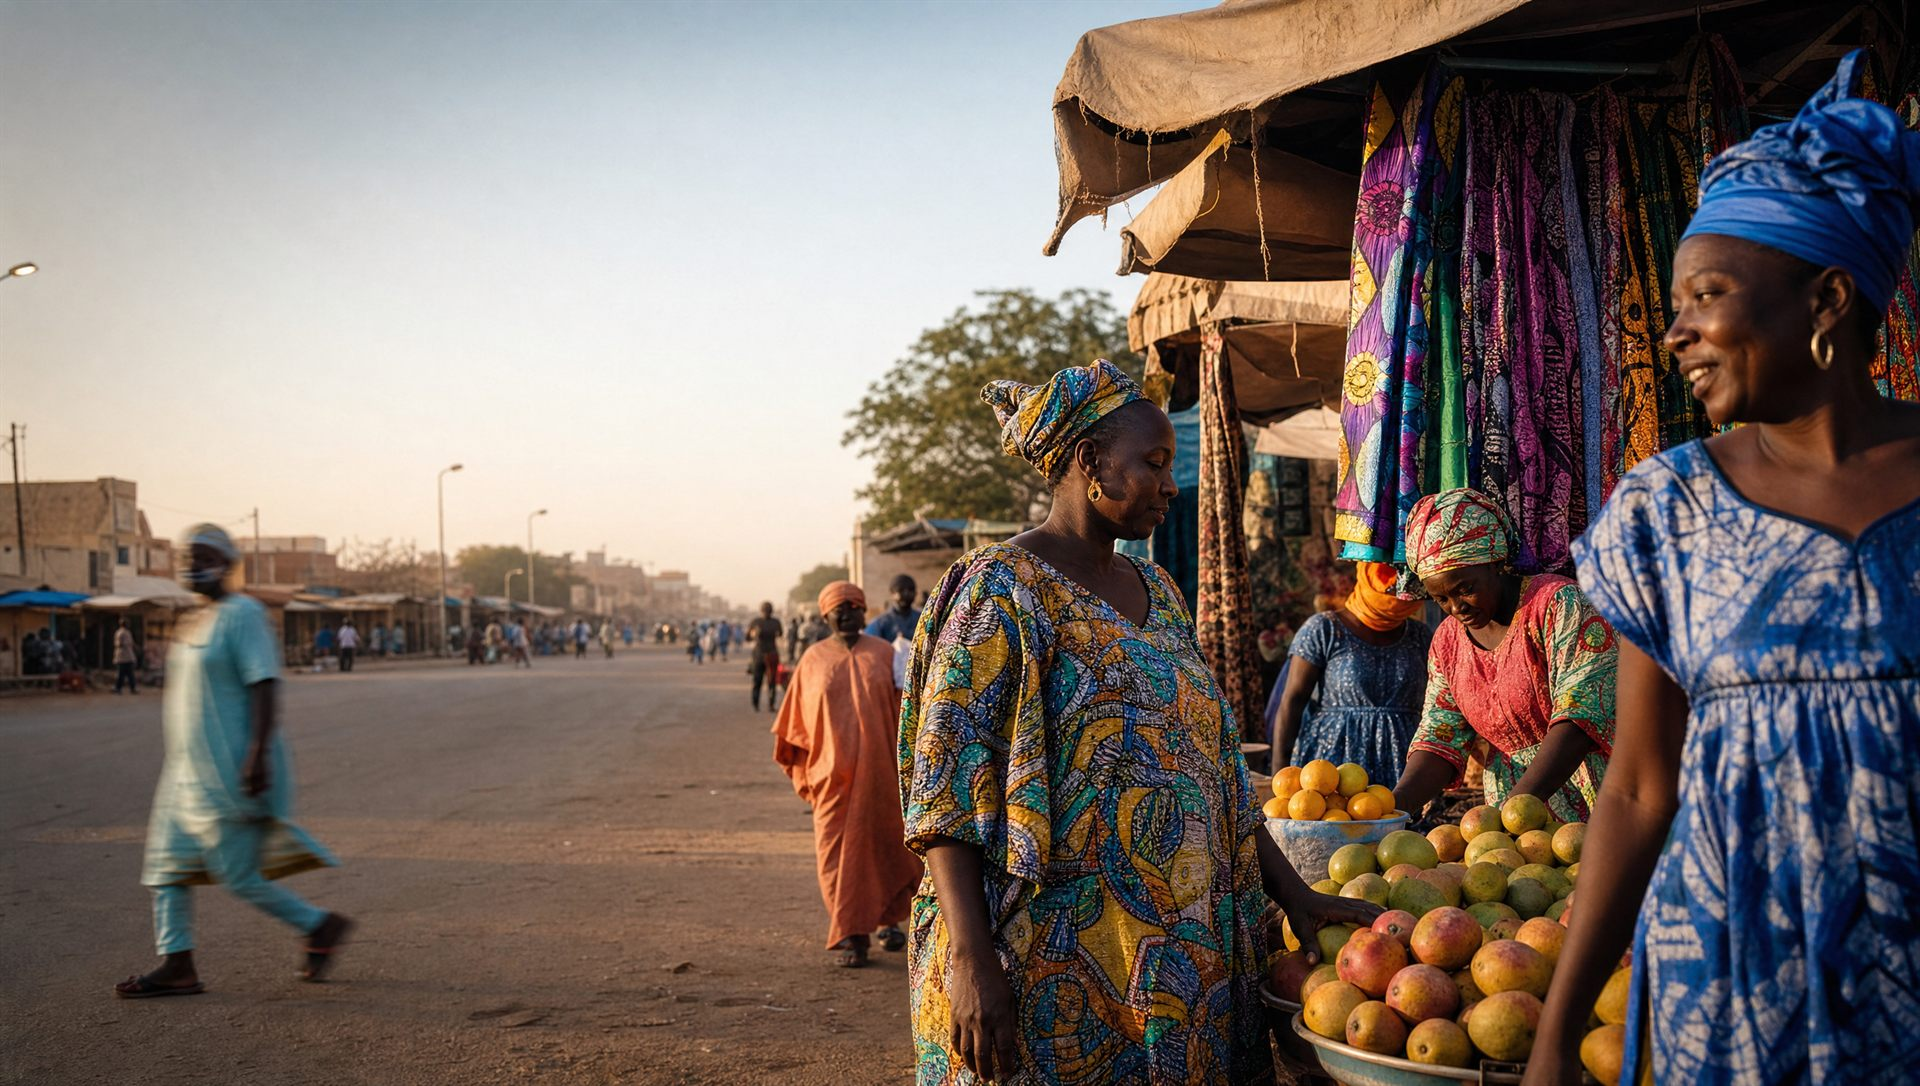
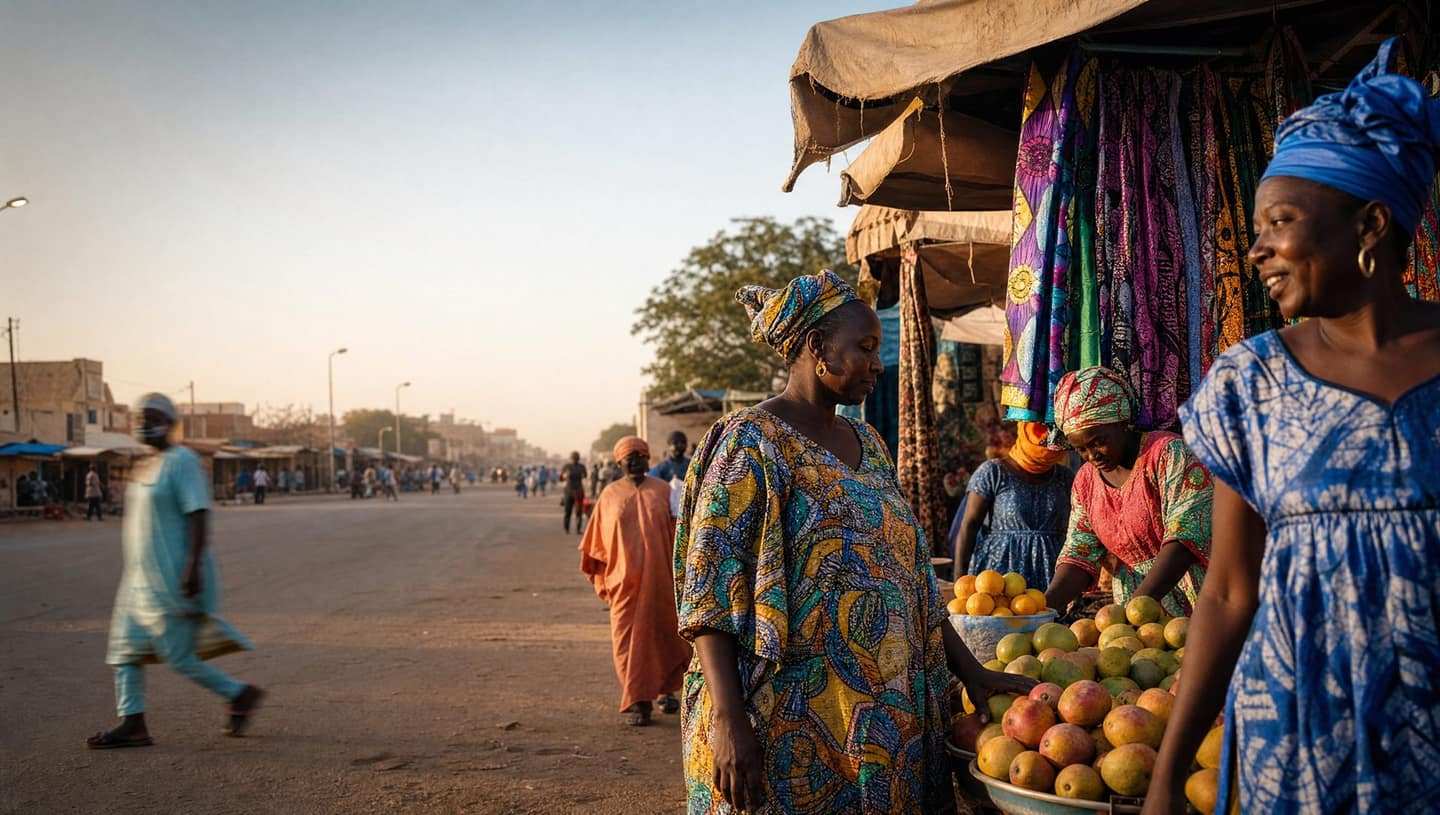
fix(affichage): en-tete selon le compte, polices non bloquantes, bannieres allegees (S1-13)
- entete-compte.js : sur l'accueil, la boutique et le produit, le bouton de
  compte montre le prenom et mene au bon espace (vendeur -> tableau de bord,
  acheteur -> profil, admin -> admin) ; « Devenir vendeur » devient « Mon
  espace vendeur » pour un vendeur connecte. Le bouton de la page produit
  ne faisait rien.
- Produit : le bouton panier ouvre le panier (il affichait « Panier... »).
- Polices Google chargees sans bloquer l'affichage sur les 23 pages, avec
  repli <noscript>. Mesure en 3G lente : la page boutique ne s'affichait
  pas en 25 s, elle s'affiche en 6,0 s.
- banner-hero.jpg 356 -> 144 Ko, banner-mode.jpg 403 -> 179 Ko.

Agent: claude
Claude-Session: https://claude.ai/code/session_01PSfXE2FMeLEV1e51v3fH69

diff --git a/marche-senegal-accueil.html b/marche-senegal-accueil.html
@@ -44,7 +44,7 @@
  ]
 }
 </script>
-<link href="https://fonts.googleapis.com/css2?family=Manrope:wght@300..800&family=Newsreader:ital,opsz,wght@0,6..72,300..800;1,6..72,400..600&display=swap" rel="stylesheet"/>
+<link rel="stylesheet" href="https://fonts.googleapis.com/css2?family=Manrope:wght@300..800&family=Newsreader:ital,opsz,wght@0,6..72,300..800;1,6..72,400..600&display=swap" media="print" onload="this.media='all'"/><noscript><link rel="stylesheet" href="https://fonts.googleapis.com/css2?family=Manrope:wght@300..800&family=Newsreader:ital,opsz,wght@0,6..72,300..800;1,6..72,400..600&display=swap"/></noscript>
 <link rel="stylesheet" href="styles.css"/>
 <style>
 /* HERO */
@@ -443,6 +443,7 @@ footer{background:#0A1710;padding:52px 5vw 28px;color:rgba(255,255,255,.45)}
 </nav>
 <script src="guide-marche.js"></script>
 <script src="api.js"></script>
+<script src="entete-compte.js"></script>
 <script src="stories.js"></script>
 <script src="stories-ui.js"></script>
 <script>
@@ -1057,32 +1058,8 @@ function updateCartCount() {
 
 // ── Mettre à jour le bouton connexion ──
 function updateAuthButton() {
-  const user = getCurrentUser();
-  const loginBtn = document.querySelector('.nav-btn-login');
-  const drawerLoginBtn = document.getElementById('drawer-login-btn');
-
-  if (!loginBtn) return;
-
-  if (user) {
-    // Bouton connexion → prénom
-    loginBtn.textContent = user.firstName || 'Mon profil';
-    loginBtn.onclick = () => window.location.href = 'marche-senegal-profil.html';
-
-    if (drawerLoginBtn) {
-      drawerLoginBtn.textContent = user.firstName || 'Mon profil';
-      drawerLoginBtn.onclick = () => window.location.href = 'marche-senegal-profil.html';
-    }
-
-  } else {
-    // Non connecté
-    loginBtn.textContent = 'Se connecter';
-    loginBtn.onclick = () => window.location.href = 'marche-senegal-connexion-acheteur.html';
-
-    if (drawerLoginBtn) {
-      drawerLoginBtn.textContent = 'Se connecter';
-      drawerLoginBtn.onclick = () => window.location.href = 'marche-senegal-connexion-acheteur.html';
-    }
-  }
+  // Prénom et bonne destination selon le rôle (entete-compte.js).
+  if (window.EnteteCompte) EnteteCompte.appliquer(document, getCurrentUser());
 }
 // ── Fermer le drawer en cliquant dehors ──
 document.addEventListener('click', function(e) {

diff --git a/entete-compte.js b/entete-compte.js
@@ -1,0 +1,52 @@
+// En-tête : le bouton de compte et le lien vendeur suivent la personne connectée.
+// Sans lui, boutique et produit affichaient « Se connecter » même connecté, et un
+// vendeur connecté voyait encore « Devenir vendeur » sur l'accueil.
+(function (root) {
+  'use strict';
+
+  const ESPACE = {
+    SELLER: 'marche-senegal-dashboard.html',
+    ADMIN: 'marche-senegal-admin.html',
+    BUYER: 'marche-senegal-profil.html'
+  };
+
+  function cible(user) {
+    if (!user || !user.role) return { texte: 'Se connecter', lien: 'marche-senegal-connexion-acheteur.html' };
+    return { texte: user.firstName || 'Mon compte', lien: ESPACE[user.role] || ESPACE.BUYER };
+  }
+
+  function lienVendeur(user) {
+    return user && user.role === 'SELLER'
+      ? { texte: 'Mon espace vendeur', lien: ESPACE.SELLER }
+      : { texte: 'Devenir vendeur', lien: 'marche-senegal-connexion-vendeur.html' };
+  }
+
+  function appliquer(doc, user) {
+    const compte = cible(user);
+    doc.querySelectorAll('.nav-btn-login, .nav-drawer-row .nav-btn').forEach(bouton => {
+      bouton.textContent = compte.texte;
+      bouton.dataset.lien = compte.lien;
+      bouton.onclick = () => { root.location.href = compte.lien; };
+    });
+    const vendeur = lienVendeur(user);
+    doc.querySelectorAll('.nav-seller-link').forEach(lien => {
+      lien.setAttribute('href', vendeur.lien);
+      // Seul le texte change : la flèche décorative reste en place.
+      const texte = [...lien.childNodes].find(n => n.nodeType === 3 && n.textContent.trim());
+      if (texte) texte.textContent = vendeur.texte + ' ';
+    });
+  }
+
+  function utilisateur() {
+    try { return typeof root.getCurrentUser === 'function' ? root.getCurrentUser() : null; } catch { return null; }
+  }
+
+  const api = { cible, lienVendeur, appliquer };
+  if (typeof module !== 'undefined' && module.exports) module.exports = api;
+  else {
+    root.EnteteCompte = api;
+    const lancer = () => appliquer(root.document, utilisateur());
+    if (root.document.readyState === 'loading') root.document.addEventListener('DOMContentLoaded', lancer);
+    else lancer();
+  }
+})(typeof window !== 'undefined' ? window : globalThis);

diff --git a/marche-senegal-produit.html b/marche-senegal-produit.html
@@ -5,7 +5,7 @@
 <meta name="viewport" content="width=device-width,initial-scale=1.0"/>
 <title>Produit — Marché Sénégal</title>
 <meta name="description" content="Consultez les détails d'un produit, repérez sa boutique et contactez le vendeur sur Marché Sénégal."/>
-<link href="https://fonts.googleapis.com/css2?family=Manrope:wght@300..800&family=Newsreader:ital,opsz,wght@0,6..72,300..800;1,6..72,400..600&display=swap" rel="stylesheet"/>
+<link rel="stylesheet" href="https://fonts.googleapis.com/css2?family=Manrope:wght@300..800&family=Newsreader:ital,opsz,wght@0,6..72,300..800;1,6..72,400..600&display=swap" media="print" onload="this.media='all'"/><noscript><link rel="stylesheet" href="https://fonts.googleapis.com/css2?family=Manrope:wght@300..800&family=Newsreader:ital,opsz,wght@0,6..72,300..800;1,6..72,400..600&display=swap"/></noscript>
 <link rel="stylesheet" href="styles.css"/>
 <style>
 :root{
@@ -375,7 +375,7 @@ a{text-decoration:none;color:inherit}
   </div>
   <div class="nav-actions">
     <button class="nav-btn nav-btn-login">Se connecter</button>
-    <button class="nav-cart" onclick="toast('Panier...')">
+    <button class="nav-cart" onclick="window.location.href='marche-senegal-panier.html'">
       <i class="ic" data-ic="shopping-cart"></i><div class="cart-badge" id="cart-count">0</div>
     </button>
     <button class="nav-hamburger" id="nav-hamburger" onclick="toggleMenu()">
@@ -640,6 +640,7 @@ a{text-decoration:none;color:inherit}
 </div>
 
 <script src="api.js"></script>
+<script src="entete-compte.js"></script>
 <script>
 // ════════════════════════════════════════
 //   PAGE PRODUIT — Données dynamiques

diff --git a/marche-senegal-boutique.html b/marche-senegal-boutique.html
@@ -5,7 +5,7 @@
 <meta name="viewport" content="width=device-width,initial-scale=1.0"/>
 <title>Boutique — Marché Sénégal</title>
 <meta name="description" content="Découvrez les produits, l'emplacement et les informations de chaque boutique. Contactez le vendeur directement depuis Marché Sénégal."/>
-<link href="https://fonts.googleapis.com/css2?family=Manrope:wght@300..800&family=Newsreader:ital,opsz,wght@0,6..72,300..800;1,6..72,400..600&display=swap" rel="stylesheet"/>
+<link rel="stylesheet" href="https://fonts.googleapis.com/css2?family=Manrope:wght@300..800&family=Newsreader:ital,opsz,wght@0,6..72,300..800;1,6..72,400..600&display=swap" media="print" onload="this.media='all'"/><noscript><link rel="stylesheet" href="https://fonts.googleapis.com/css2?family=Manrope:wght@300..800&family=Newsreader:ital,opsz,wght@0,6..72,300..800;1,6..72,400..600&display=swap"/></noscript>
 <link rel="stylesheet" href="styles.css"/>
 <style>
 
@@ -564,6 +564,7 @@ a.map-btn{display:flex;align-items:center;justify-content:center;gap:6px;text-de
 </nav>
 
 <script src="api.js"></script>
+<script src="entete-compte.js"></script>
 <script src="boutique-visite.js"></script>
 <script src="vue-360.js"></script>
 <script src="boutique-visite-ui.js"></script>

diff --git a/marche-senegal-marche.html b/marche-senegal-marche.html
@@ -5,7 +5,7 @@
 <meta name="viewport" content="width=device-width,initial-scale=1.0"/>
 <title>Marchés du Sénégal — Marché Sénégal</title>
 <meta name="description" content="Explorez les boutiques et produits des marchés sénégalais : Sandaga, Tilène, HLM, Touba, Ziguinchor."/>
-<link href="https://fonts.googleapis.com/css2?family=Manrope:wght@300..800&family=Newsreader:ital,opsz,wght@0,6..72,300..800;1,6..72,400..600&display=swap" rel="stylesheet"/>
+<link rel="stylesheet" href="https://fonts.googleapis.com/css2?family=Manrope:wght@300..800&family=Newsreader:ital,opsz,wght@0,6..72,300..800;1,6..72,400..600&display=swap" media="print" onload="this.media='all'"/><noscript><link rel="stylesheet" href="https://fonts.googleapis.com/css2?family=Manrope:wght@300..800&family=Newsreader:ital,opsz,wght@0,6..72,300..800;1,6..72,400..600&display=swap"/></noscript>
 <link rel="stylesheet" href="styles.css"/>
 <style>
 :root{--green:#1B6B3A;--gl:#2E9459;--gp:#E8F5EC;--g2:#B8D8C4;--gold:#E6A817;--gdl:#FDF3DC;--dark:#0D1F17;--text:#1A2E24;--muted:#6B8074;--bg:#F5F7F5;--white:#FAFAF7;--border:#D8E8DE;--red:#C0392B;--rp:#FDE8E6;--shadow:0 2px 16px rgba(27,107,58,.09);--shadow-lg:0 8px 40px rgba(27,107,58,.14);--radius:14px;--nav-h:68px}

diff --git a/marche-senegal-admin.html b/marche-senegal-admin.html
@@ -5,7 +5,7 @@
 <meta name="viewport" content="width=device-width,initial-scale=1.0"/>
 <title>Administration — Marché Sénégal</title>
 <meta name="description" content="Panneau d'administration Marché Sénégal."/>
-<link href="https://fonts.googleapis.com/css2?family=Manrope:wght@300..800&family=Newsreader:ital,opsz,wght@0,6..72,300..800;1,6..72,400..600&display=swap" rel="stylesheet"/>
+<link rel="stylesheet" href="https://fonts.googleapis.com/css2?family=Manrope:wght@300..800&family=Newsreader:ital,opsz,wght@0,6..72,300..800;1,6..72,400..600&display=swap" media="print" onload="this.media='all'"/><noscript><link rel="stylesheet" href="https://fonts.googleapis.com/css2?family=Manrope:wght@300..800&family=Newsreader:ital,opsz,wght@0,6..72,300..800;1,6..72,400..600&display=swap"/></noscript>
 <link rel="stylesheet" href="styles.css"/>
 <style>
 :root{--green:#1B6B3A;--gl:#2E9459;--gp:#E8F5EC;--g2:#B8D8C4;--gold:#E6A817;--gdl:#FDF3DC;--dark:#0D1F17;--text:#1A2E24;--muted:#6B8074;--bg:#F5F7F5;--white:#FAFAF7;--border:#D8E8DE;--red:#C0392B;--rp:#FDE8E6;--blue:#1565C0;--bluep:#E3F2FD;--shadow:0 2px 16px rgba(27,107,58,.09);--shadow-lg:0 8px 40px rgba(27,107,58,.14);--radius:14px;--sb-w:220px;--tb-h:56px}

diff --git a/marche-senegal-ajout-produit.html b/marche-senegal-ajout-produit.html
@@ -5,7 +5,7 @@
 <meta name="viewport" content="width=device-width,initial-scale=1.0"/>
 <title>Ajouter un produit — Marché Sénégal</title>
 <meta name="description" content="Ajoutez un nouveau produit à votre boutique Marché Sénégal."/>
-<link href="https://fonts.googleapis.com/css2?family=Manrope:wght@300..800&family=Newsreader:ital,opsz,wght@0,6..72,300..800;1,6..72,400..600&display=swap" rel="stylesheet"/>
+<link rel="stylesheet" href="https://fonts.googleapis.com/css2?family=Manrope:wght@300..800&family=Newsreader:ital,opsz,wght@0,6..72,300..800;1,6..72,400..600&display=swap" media="print" onload="this.media='all'"/><noscript><link rel="stylesheet" href="https://fonts.googleapis.com/css2?family=Manrope:wght@300..800&family=Newsreader:ital,opsz,wght@0,6..72,300..800;1,6..72,400..600&display=swap"/></noscript>
 <link rel="stylesheet" href="styles.css"/>
 <style>
 :root{--green:#1B6B3A;--gl:#2E9459;--gp:#E8F5EC;--g2:#B8D8C4;--gold:#E6A817;--gdl:#FDF3DC;--dark:#0D1F17;--text:#1A2E24;--muted:#6B8074;--bg:#F5F7F5;--white:#FAFAF7;--border:#D8E8DE;--red:#C0392B;--rp:#FDE8E6;--shadow:0 2px 16px rgba(27,107,58,.09);--shadow-lg:0 8px 40px rgba(27,107,58,.14);--radius:14px}

diff --git a/marche-senegal-mes-stories.html b/marche-senegal-mes-stories.html
@@ -6,7 +6,7 @@
 <title>Mes stories — Marché Sénégal Vendeur</title>
 <meta name="description" content="Publiez une photo ou une courte vidéo de vos nouveautés, visible 24 h par les acheteurs de Marché Sénégal."/>
 <meta name="robots" content="noindex"/>
-<link href="https://fonts.googleapis.com/css2?family=Manrope:wght@300..800&family=Newsreader:ital,opsz,wght@0,6..72,300..800;1,6..72,400..600&display=swap" rel="stylesheet"/>
+<link rel="stylesheet" href="https://fonts.googleapis.com/css2?family=Manrope:wght@300..800&family=Newsreader:ital,opsz,wght@0,6..72,300..800;1,6..72,400..600&display=swap" media="print" onload="this.media='all'"/><noscript><link rel="stylesheet" href="https://fonts.googleapis.com/css2?family=Manrope:wght@300..800&family=Newsreader:ital,opsz,wght@0,6..72,300..800;1,6..72,400..600&display=swap"/></noscript>
 <link rel="stylesheet" href="styles.css"/>
 <style>
 :root{--green:#1B6B3A;--gl:#2E9459;--gp:#E8F5EC;--gold:#E6A817;--dark:#0D1F17;--text:#1A2E24;--muted:#6B8074;--bg:#F5F7F5;--white:#FAFAF7;--border:#D8E8DE;--red:#C0392B;--radius:14px}

diff --git a/marche-senegal-modifier-produit.html b/marche-senegal-modifier-produit.html
@@ -4,7 +4,7 @@
 <meta charset="UTF-8"/>
 <meta name="viewport" content="width=device-width,initial-scale=1.0"/>
 <title>Modifier un produit — Marché Sénégal</title>
-<link href="https://fonts.googleapis.com/css2?family=Manrope:wght@300..800&family=Newsreader:ital,opsz,wght@0,6..72,300..800;1,6..72,400..600&display=swap" rel="stylesheet"/>
+<link rel="stylesheet" href="https://fonts.googleapis.com/css2?family=Manrope:wght@300..800&family=Newsreader:ital,opsz,wght@0,6..72,300..800;1,6..72,400..600&display=swap" media="print" onload="this.media='all'"/><noscript><link rel="stylesheet" href="https://fonts.googleapis.com/css2?family=Manrope:wght@300..800&family=Newsreader:ital,opsz,wght@0,6..72,300..800;1,6..72,400..600&display=swap"/></noscript>
 <link rel="stylesheet" href="styles.css"/>
 <style>
 :root{--green:#1B6B3A;--gl:#2E9459;--gp:#E8F5EC;--g2:#B8D8C4;--gold:#E6A817;--dark:#0D1F17;--text:#1A2E24;--muted:#6B8074;--bg:#F5F7F5;--white:#FAFAF7;--border:#D8E8DE;--red:#C0392B;--shadow:0 2px 16px rgba(27,107,58,.09);--radius:14px;--nav-h:64px}

diff --git a/marche-senegal-connexion-acheteur.html b/marche-senegal-connexion-acheteur.html
@@ -5,7 +5,7 @@
 <meta name="viewport" content="width=device-width,initial-scale=1.0"/>
 <title>Connexion Acheteur — Marché Sénégal</title>
 <meta name="description" content="Connectez-vous à votre compte acheteur Marché Sénégal et commandez auprès des vendeurs sénégalais."/>
-<link href="https://fonts.googleapis.com/css2?family=Manrope:wght@300..800&family=Newsreader:ital,opsz,wght@0,6..72,300..800;1,6..72,400..600&display=swap" rel="stylesheet"/>
+<link rel="stylesheet" href="https://fonts.googleapis.com/css2?family=Manrope:wght@300..800&family=Newsreader:ital,opsz,wght@0,6..72,300..800;1,6..72,400..600&display=swap" media="print" onload="this.media='all'"/><noscript><link rel="stylesheet" href="https://fonts.googleapis.com/css2?family=Manrope:wght@300..800&family=Newsreader:ital,opsz,wght@0,6..72,300..800;1,6..72,400..600&display=swap"/></noscript>
 <link rel="stylesheet" href="styles.css"/>
 <style>
 .page{display:grid;grid-template-columns:1fr 1fr;min-height:100vh}

diff --git a/marche-senegal-panier.html b/marche-senegal-panier.html
@@ -5,7 +5,7 @@
 <meta name="viewport" content="width=device-width,initial-scale=1.0"/>
 <title>Mon Panier — Marché Sénégal</title>
 <meta name="description" content="Retrouvez les produits choisis auprès des boutiques sénégalaises. Vérifiez votre panier, le retrait et les options de livraison disponibles."/>
-<link href="https://fonts.googleapis.com/css2?family=Manrope:wght@300..800&family=Newsreader:ital,opsz,wght@0,6..72,300..800;1,6..72,400..600&display=swap" rel="stylesheet"/>
+<link rel="stylesheet" href="https://fonts.googleapis.com/css2?family=Manrope:wght@300..800&family=Newsreader:ital,opsz,wght@0,6..72,300..800;1,6..72,400..600&display=swap" media="print" onload="this.media='all'"/><noscript><link rel="stylesheet" href="https://fonts.googleapis.com/css2?family=Manrope:wght@300..800&family=Newsreader:ital,opsz,wght@0,6..72,300..800;1,6..72,400..600&display=swap"/></noscript>
 <link rel="stylesheet" href="styles.css"/>
 <style>
 /* ══ BREADCRUMB ══ */

diff --git a/marche-senegal-connexion-vendeur.html b/marche-senegal-connexion-vendeur.html
@@ -5,7 +5,7 @@
 <meta name="viewport" content="width=device-width,initial-scale=1.0"/>
 <title>Espace Vendeur — Marché Sénégal</title>
 <meta name="description" content="Connectez-vous à votre espace vendeur Marché Sénégal. Gérez votre boutique et vos produits."/>
-<link href="https://fonts.googleapis.com/css2?family=Manrope:wght@300..800&family=Newsreader:ital,opsz,wght@0,6..72,300..800;1,6..72,400..600&display=swap" rel="stylesheet"/>
+<link rel="stylesheet" href="https://fonts.googleapis.com/css2?family=Manrope:wght@300..800&family=Newsreader:ital,opsz,wght@0,6..72,300..800;1,6..72,400..600&display=swap" media="print" onload="this.media='all'"/><noscript><link rel="stylesheet" href="https://fonts.googleapis.com/css2?family=Manrope:wght@300..800&family=Newsreader:ital,opsz,wght@0,6..72,300..800;1,6..72,400..600&display=swap"/></noscript>
 <link rel="stylesheet" href="styles.css"/>
 <style>
 .page{display:grid;grid-template-columns:1fr 1fr;min-height:100vh}
